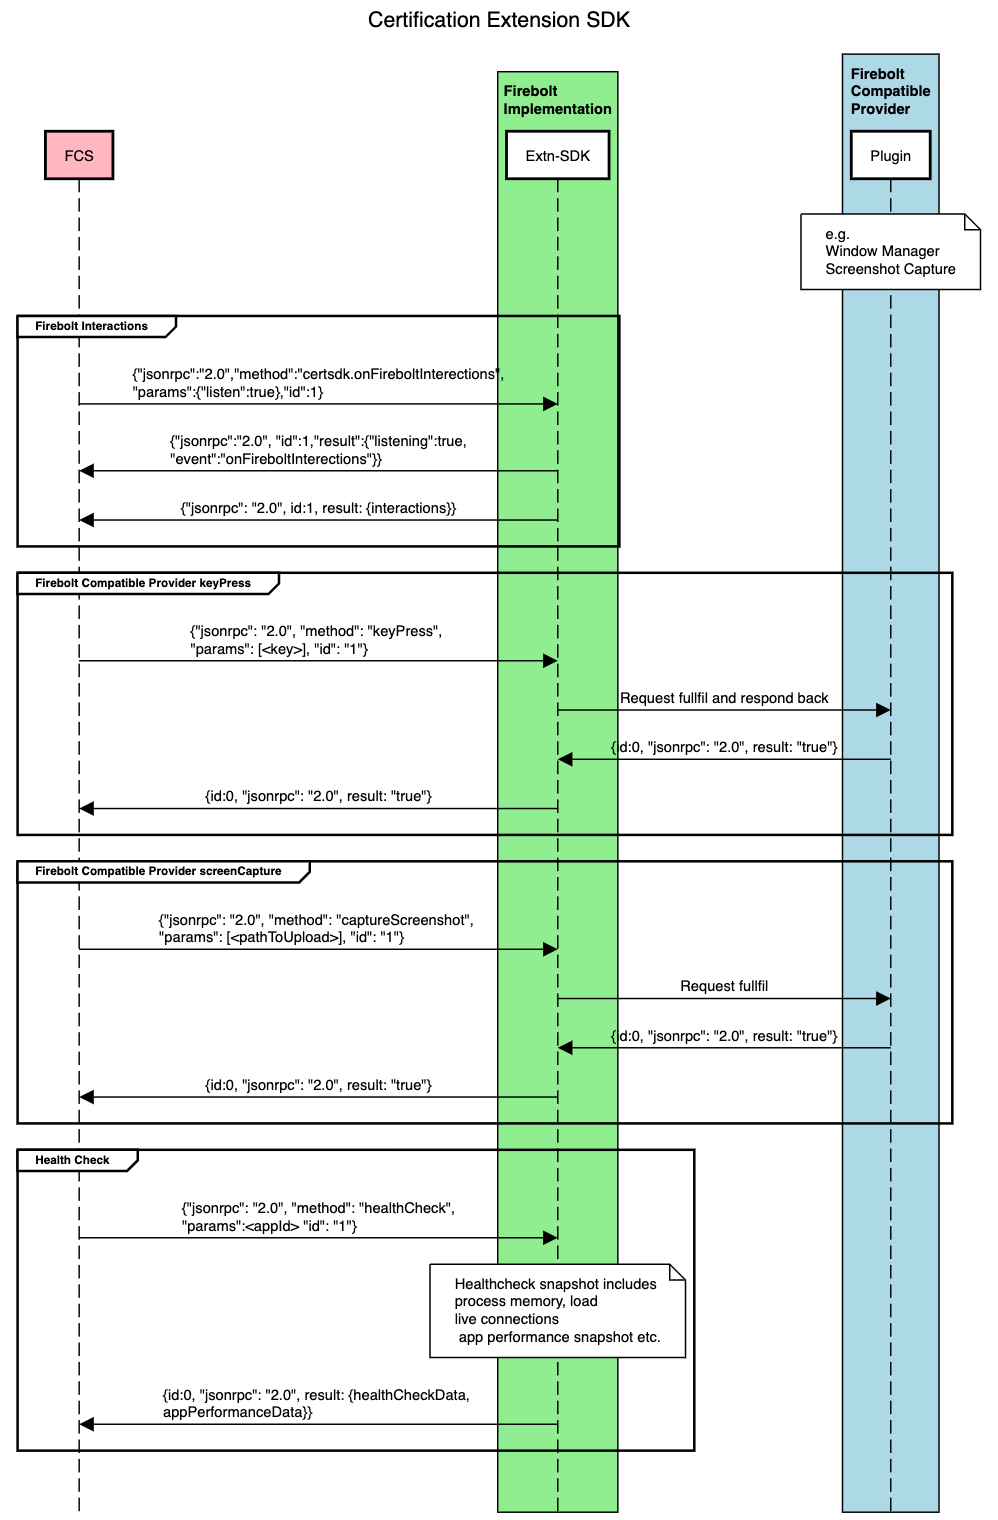
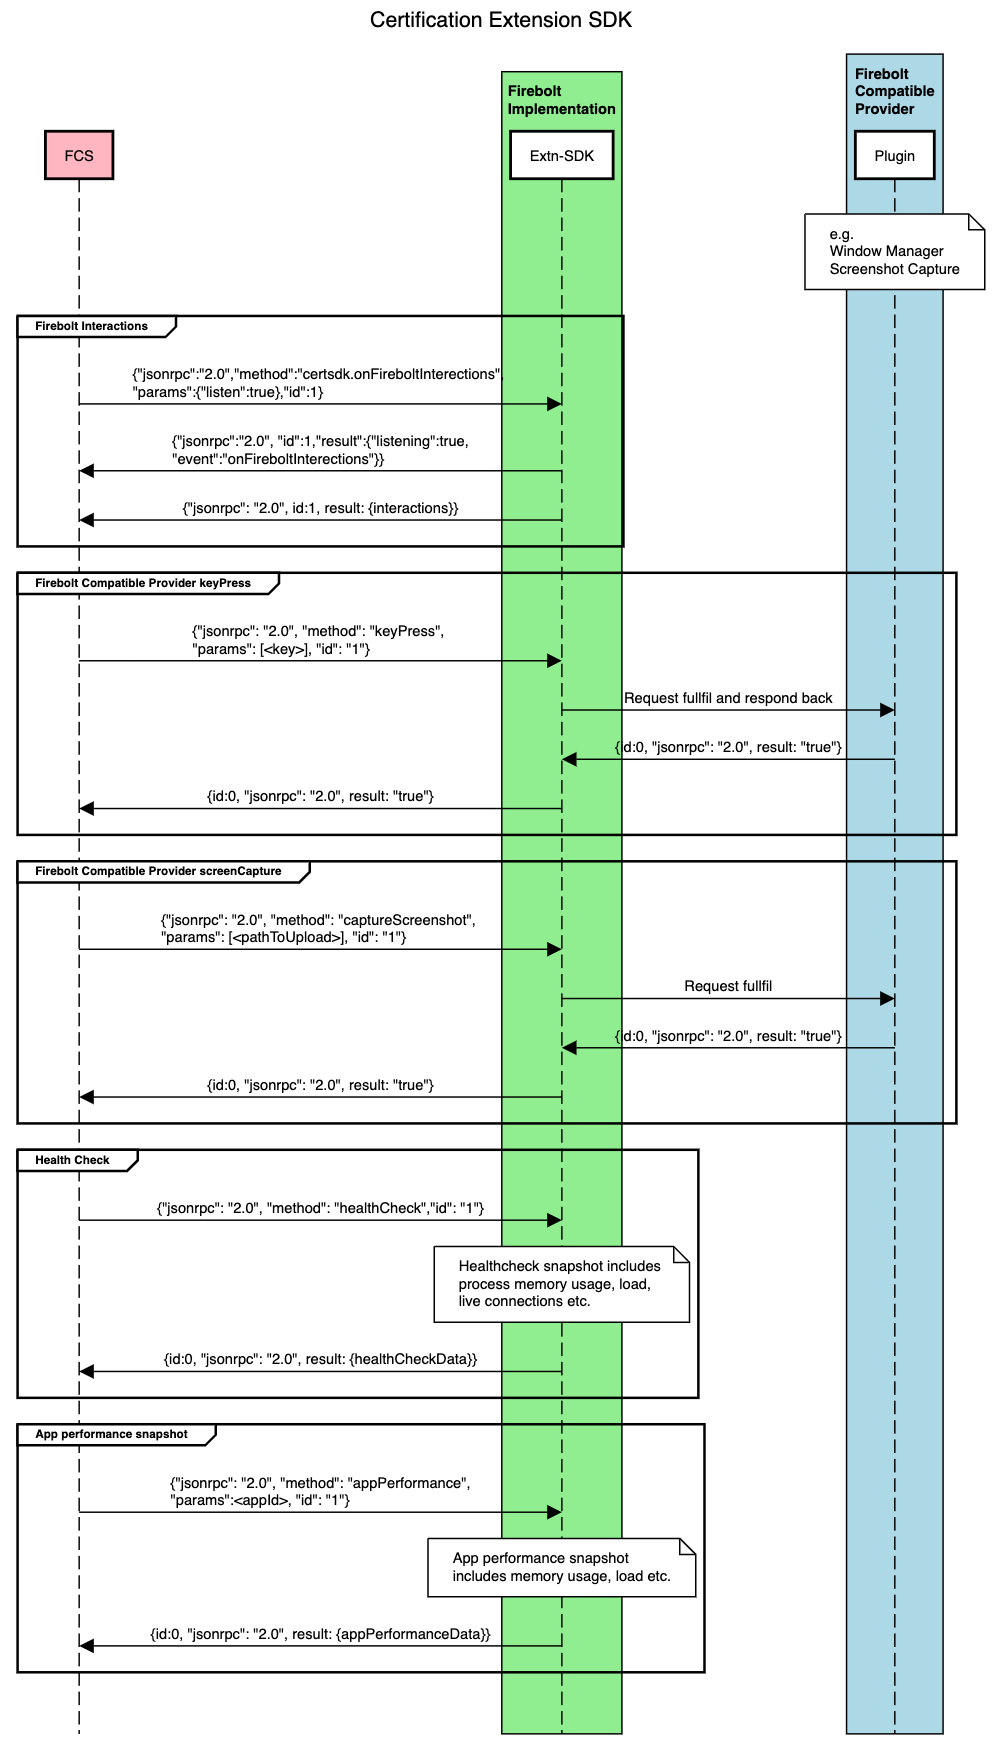
Updated HLA

Changed region(s): [[0.0, 0.0, 0.994, 1.0], [0.0311, 0.0618, 0.1242, 0.1237], [0.0621, 0.8658, 0.0932, 0.8967]]

diff --git a/requirements/specifications/extnSDK/certification-extension-sdk.md b/requirements/specifications/extnSDK/certification-extension-sdk.md
@@ -19,16 +19,17 @@ CE-SDK would required below use cases to adhere.
     - Ability to fetch request and responses coming to/from platform
     - Capability: <b>xrn:firebolt:capability:cert-extension:fireboltinteractions</b>
   - <b>Health check Statistics</b>
-    - Statistics from Firebolt-Implementation such as load, memory usage, how many firebolt connections are currently active, what apps, total requests, success and failure, app performance snapshot
-    - Capabilities: 
-      - <b>xrn:firebolt:capability:cert-extension:healthcheck</b>
-      - <b>xrn:firebolt:capability:cert-extension:appperformancedata</b>
+    - Statistics from Firebolt-Implementation such as load, memory usage, how many firebolt connections are currently active, what apps, total requests, success and failure
+    - Capability: <b>xrn:firebolt:capability:cert-extension:healthcheck</b>
+  - <b>App performance Snapshot</b>
+    - Snapshot of the performance for app such as load, memory etc.
+    - Capability: <b>xrn:firebolt:capability:cert-extension:appperformancedata</b>
   - <b>Firebolt compatible provider calls</b>
     - <b>Keypress</b>
       - To navigate on the screen
       - Capability: <b>xrn:firebolt:capability:cert-extension:keypress</b>
     - <b>Screenshot</b>
-      - Fetch, upload and compare
+      - Fetch and upload the screenshot
       - Capability: <b>xrn:firebolt:capability:cert-extension:screencapture</b>
 
 ## 4. HLA
